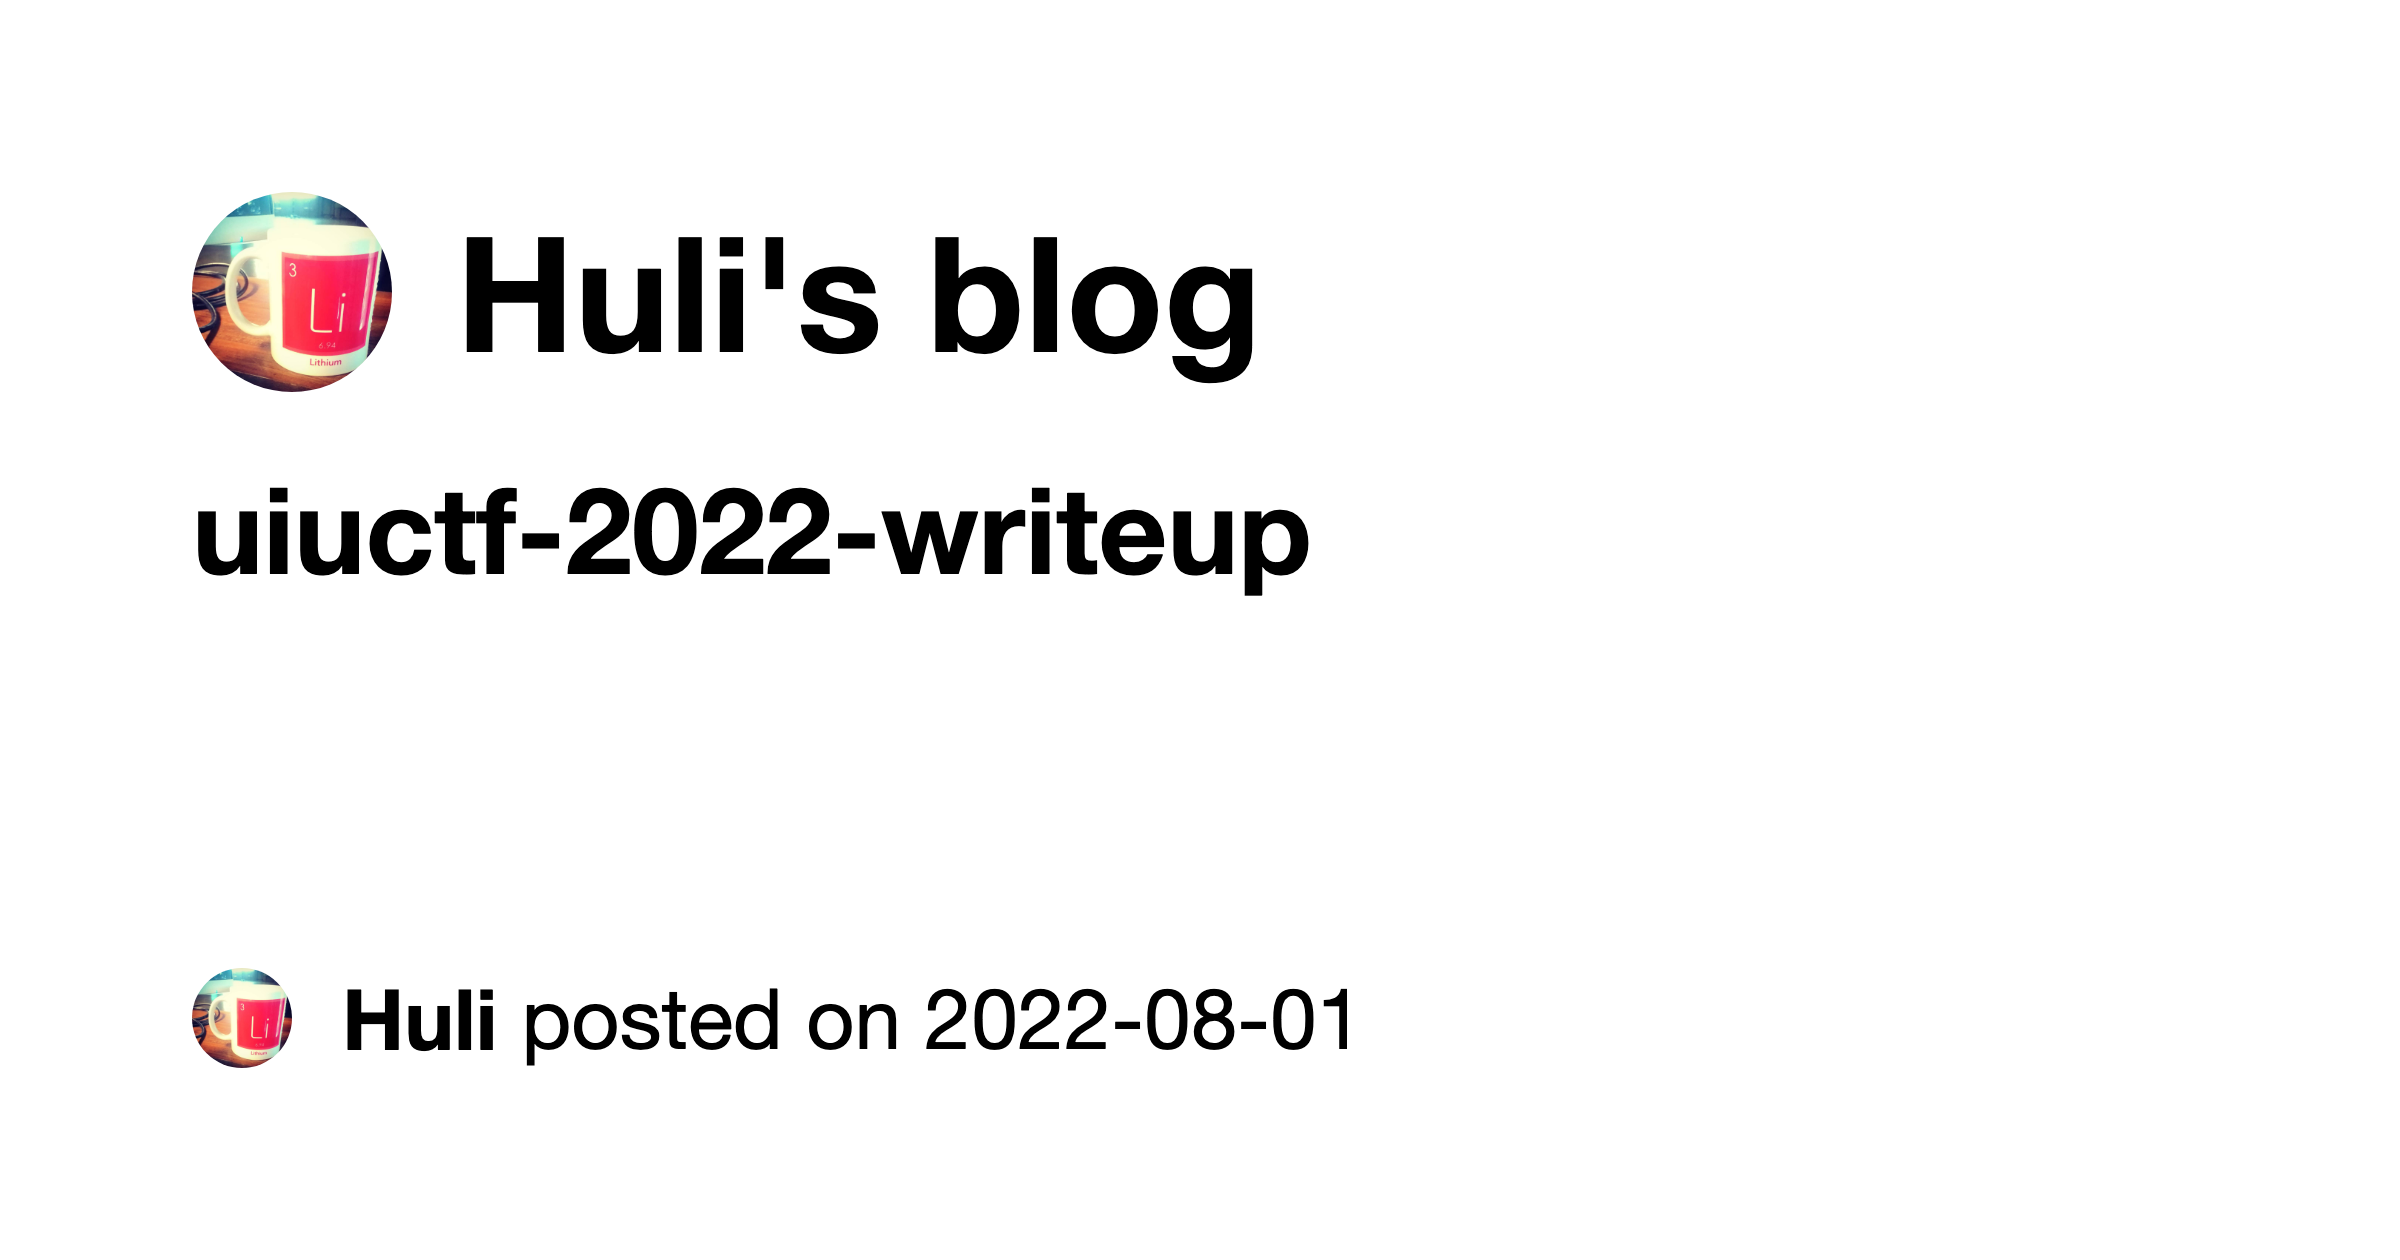
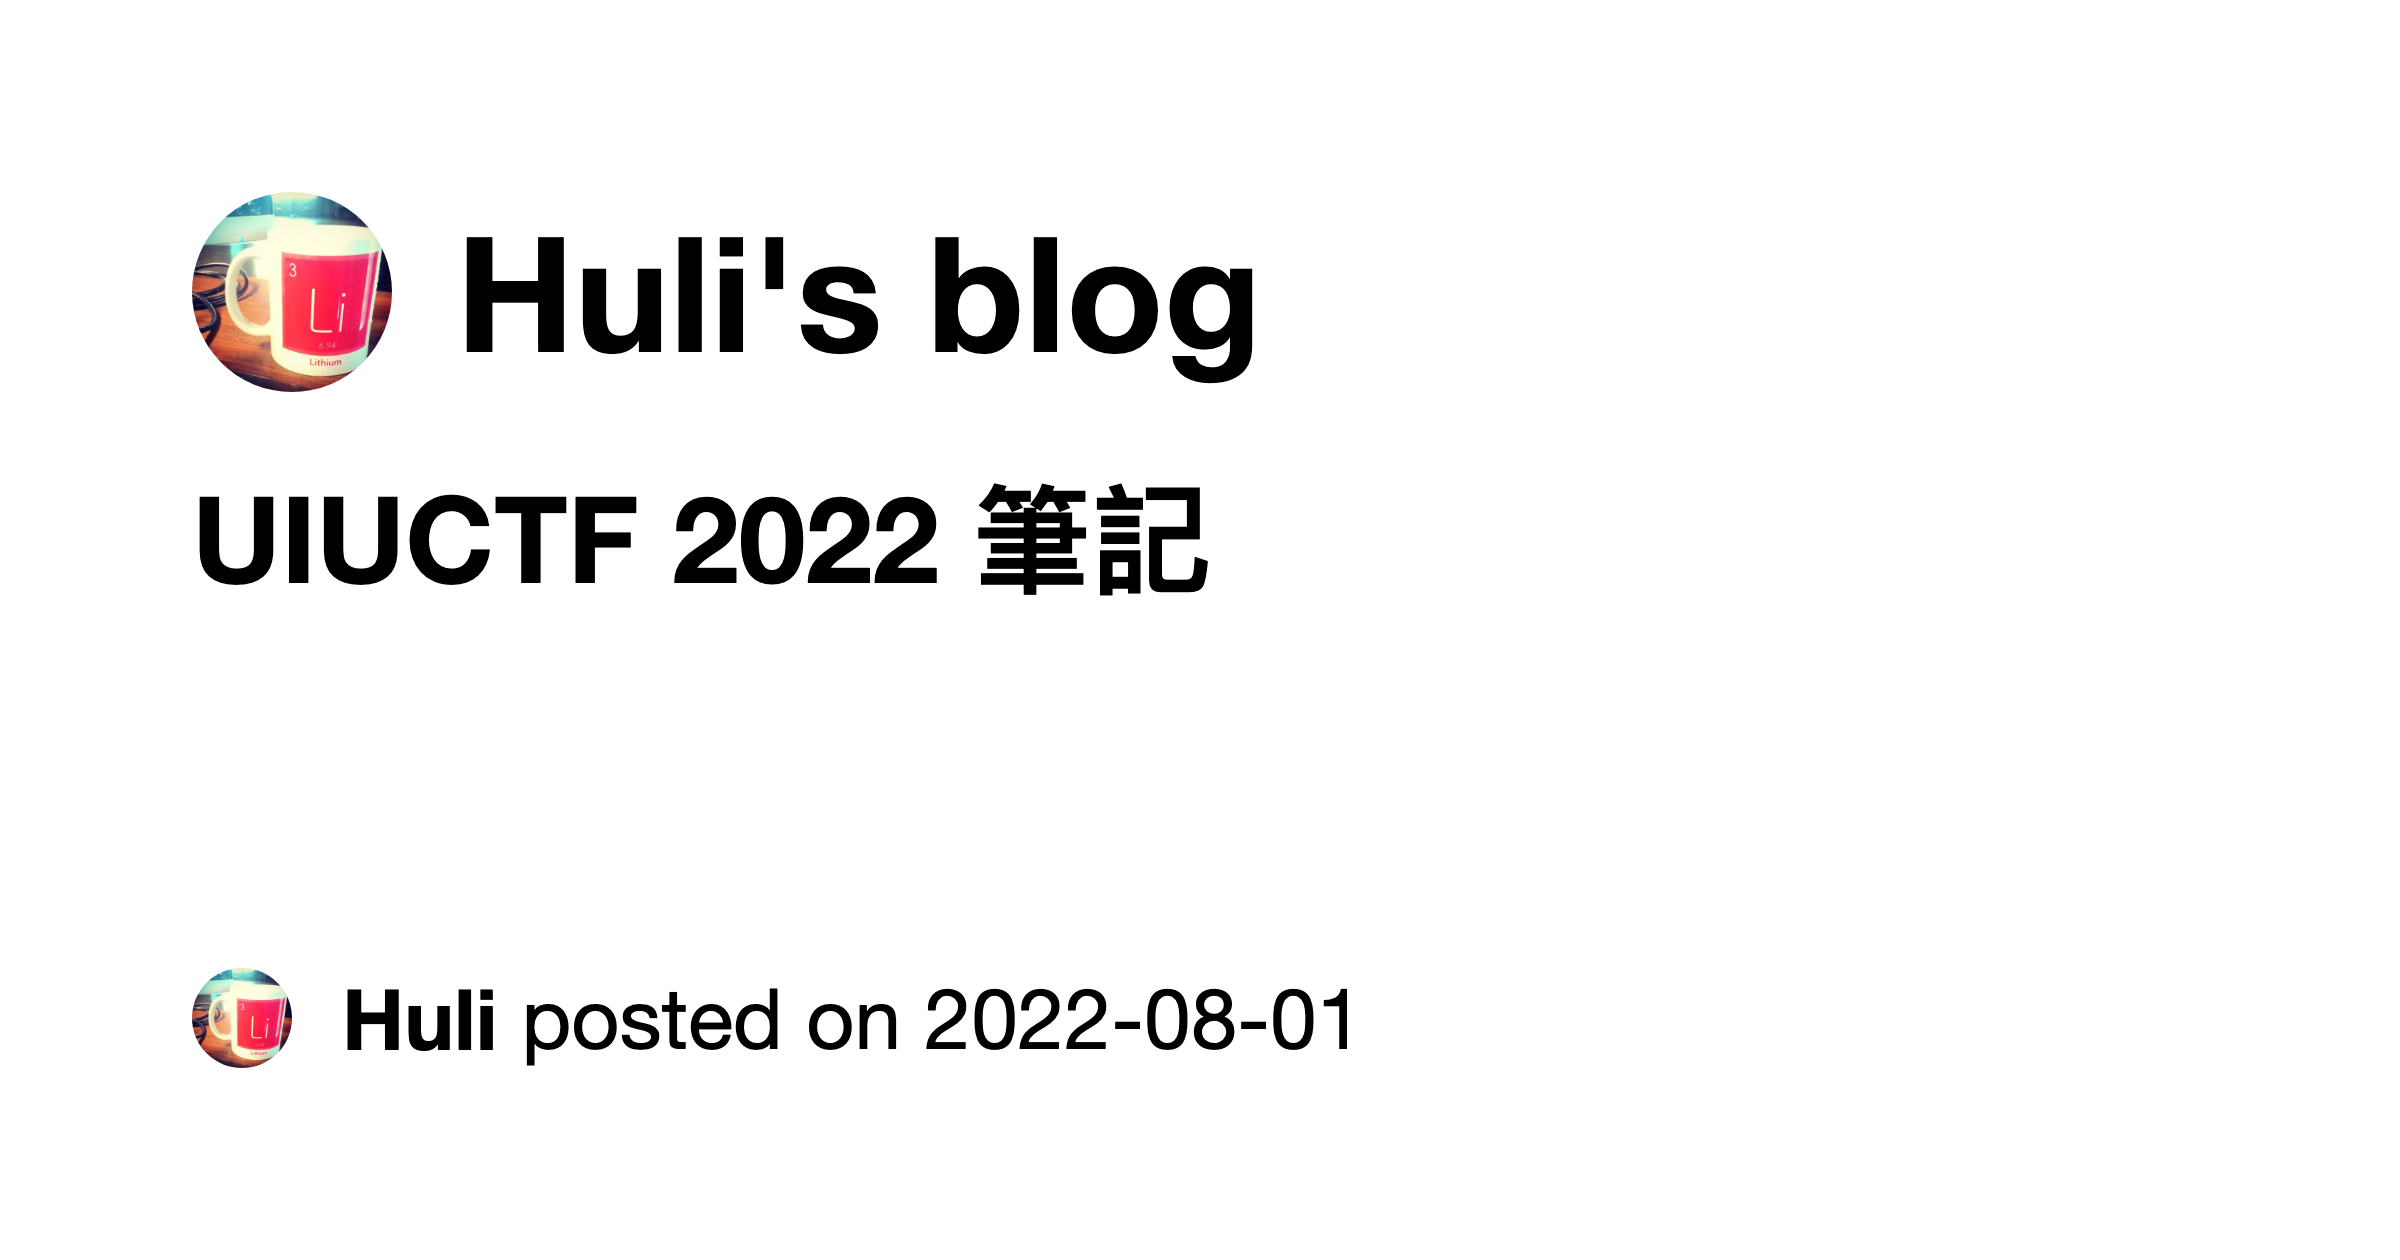
fix title

Changed region(s): [[0.0625, 0.3714, 0.5625, 0.4952]]

diff --git a/source/_posts/uiuctf-2022-writeup.md b/source/_posts/uiuctf-2022-writeup.md
@@ -1,5 +1,5 @@
 ---
-title: uiuctf-2022-writeup
+title: UIUCTF 2022 筆記
 catalog: true
 date: 2022-08-01 20:31:10
 tags: [Security]
